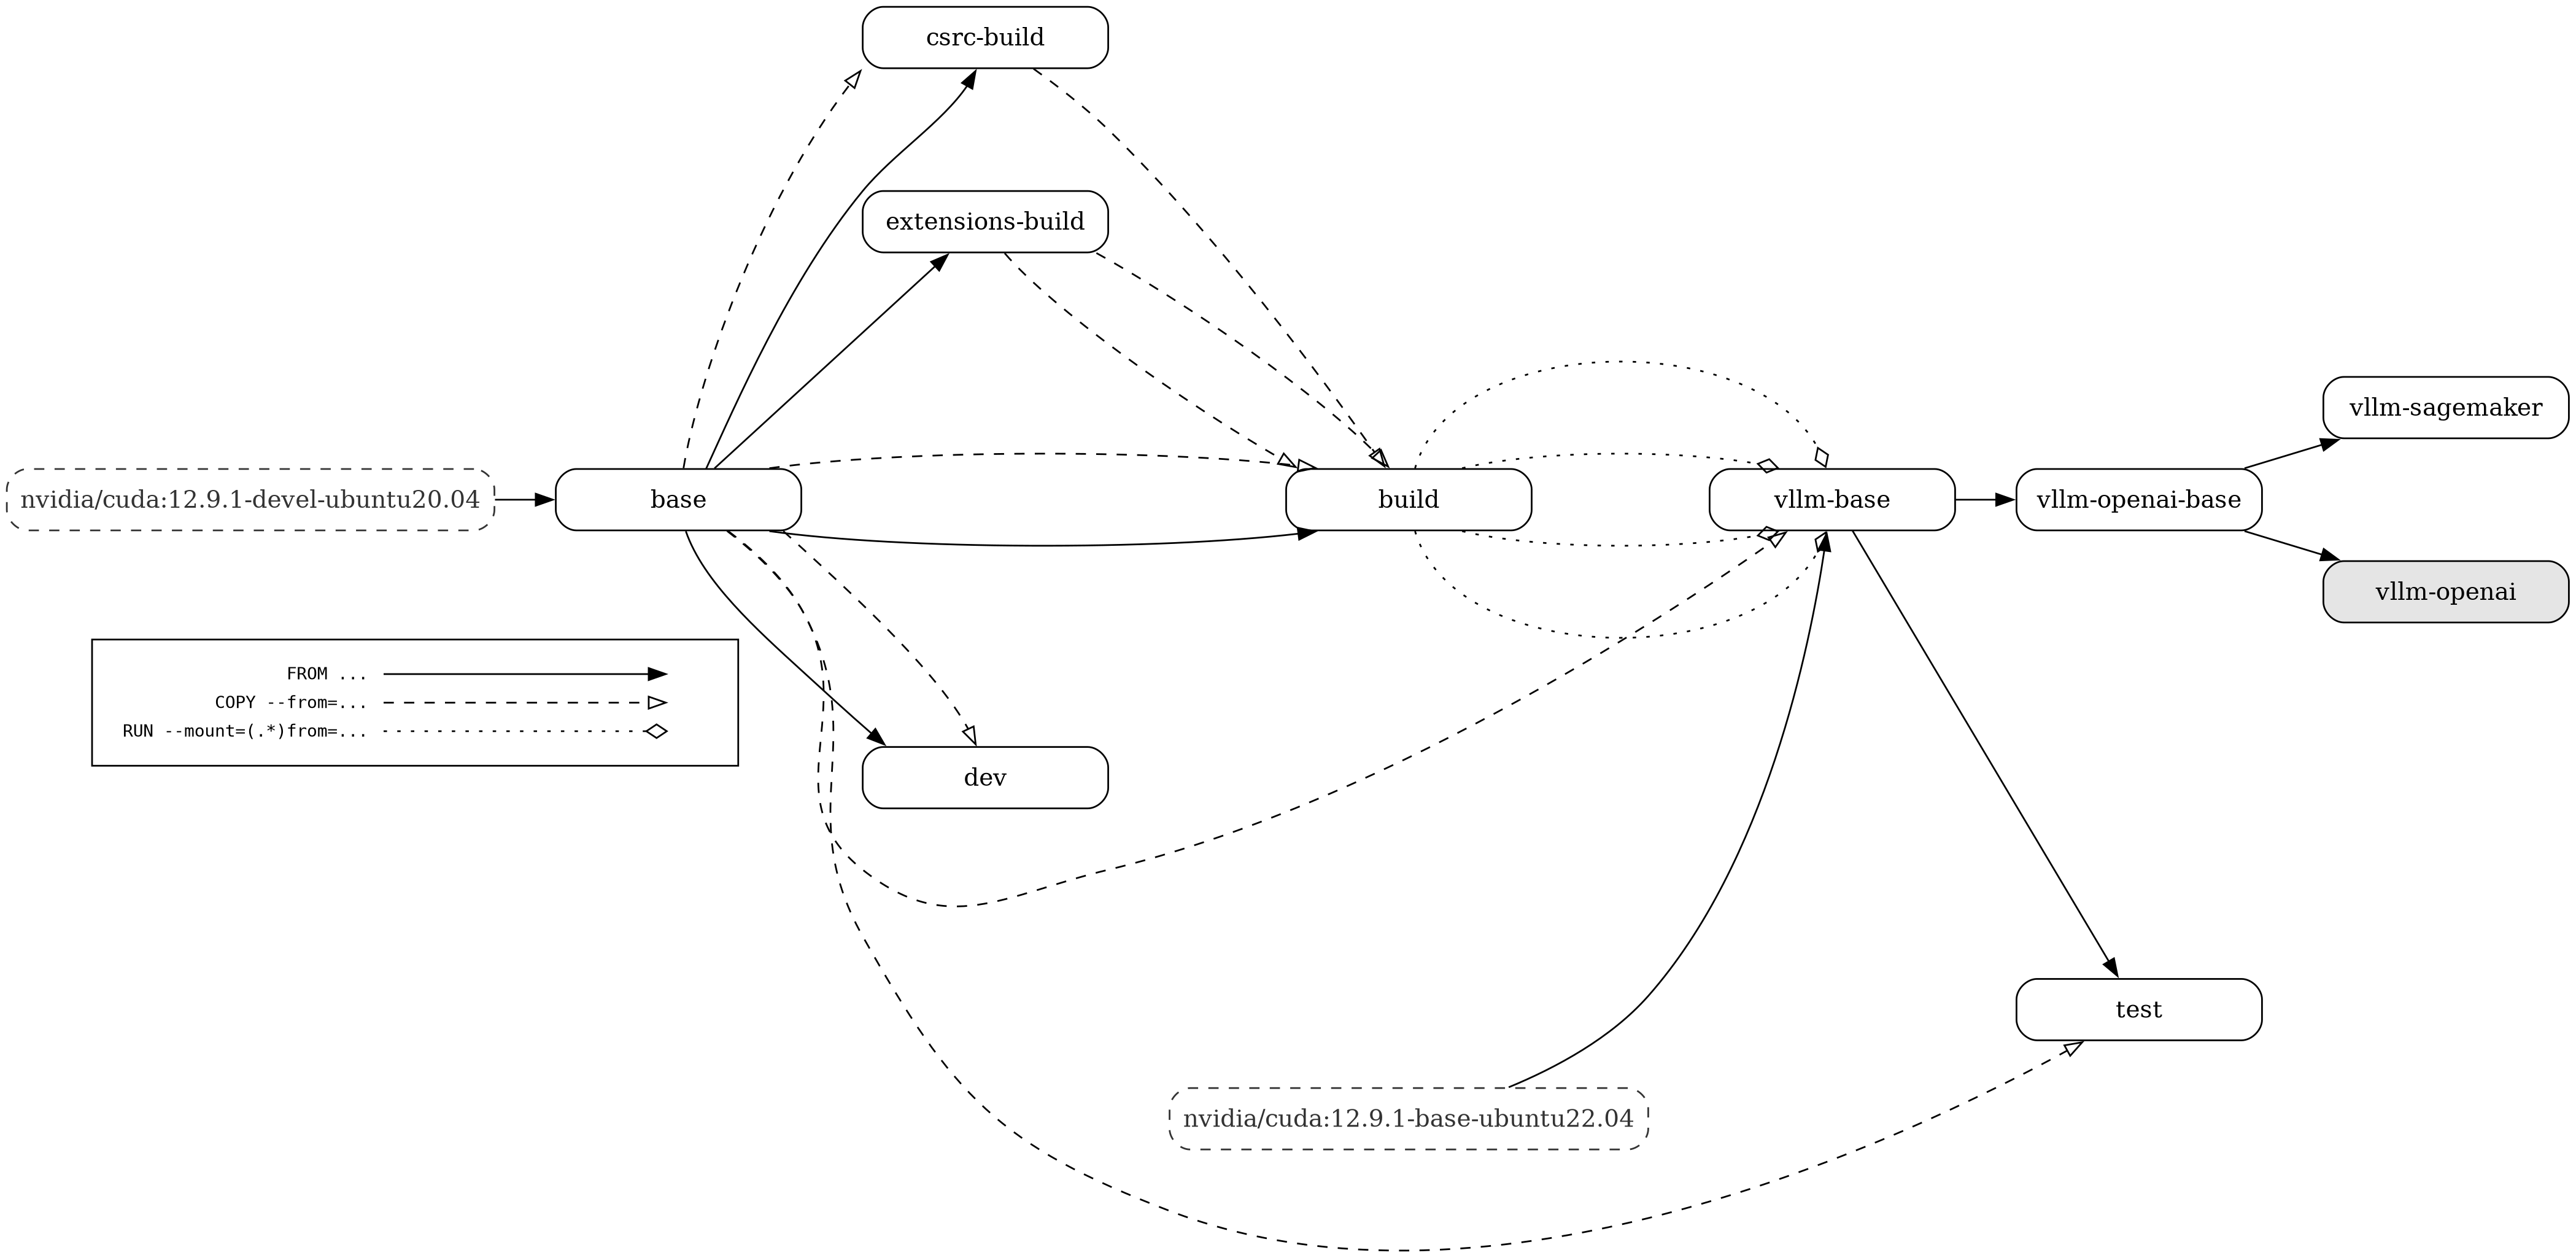
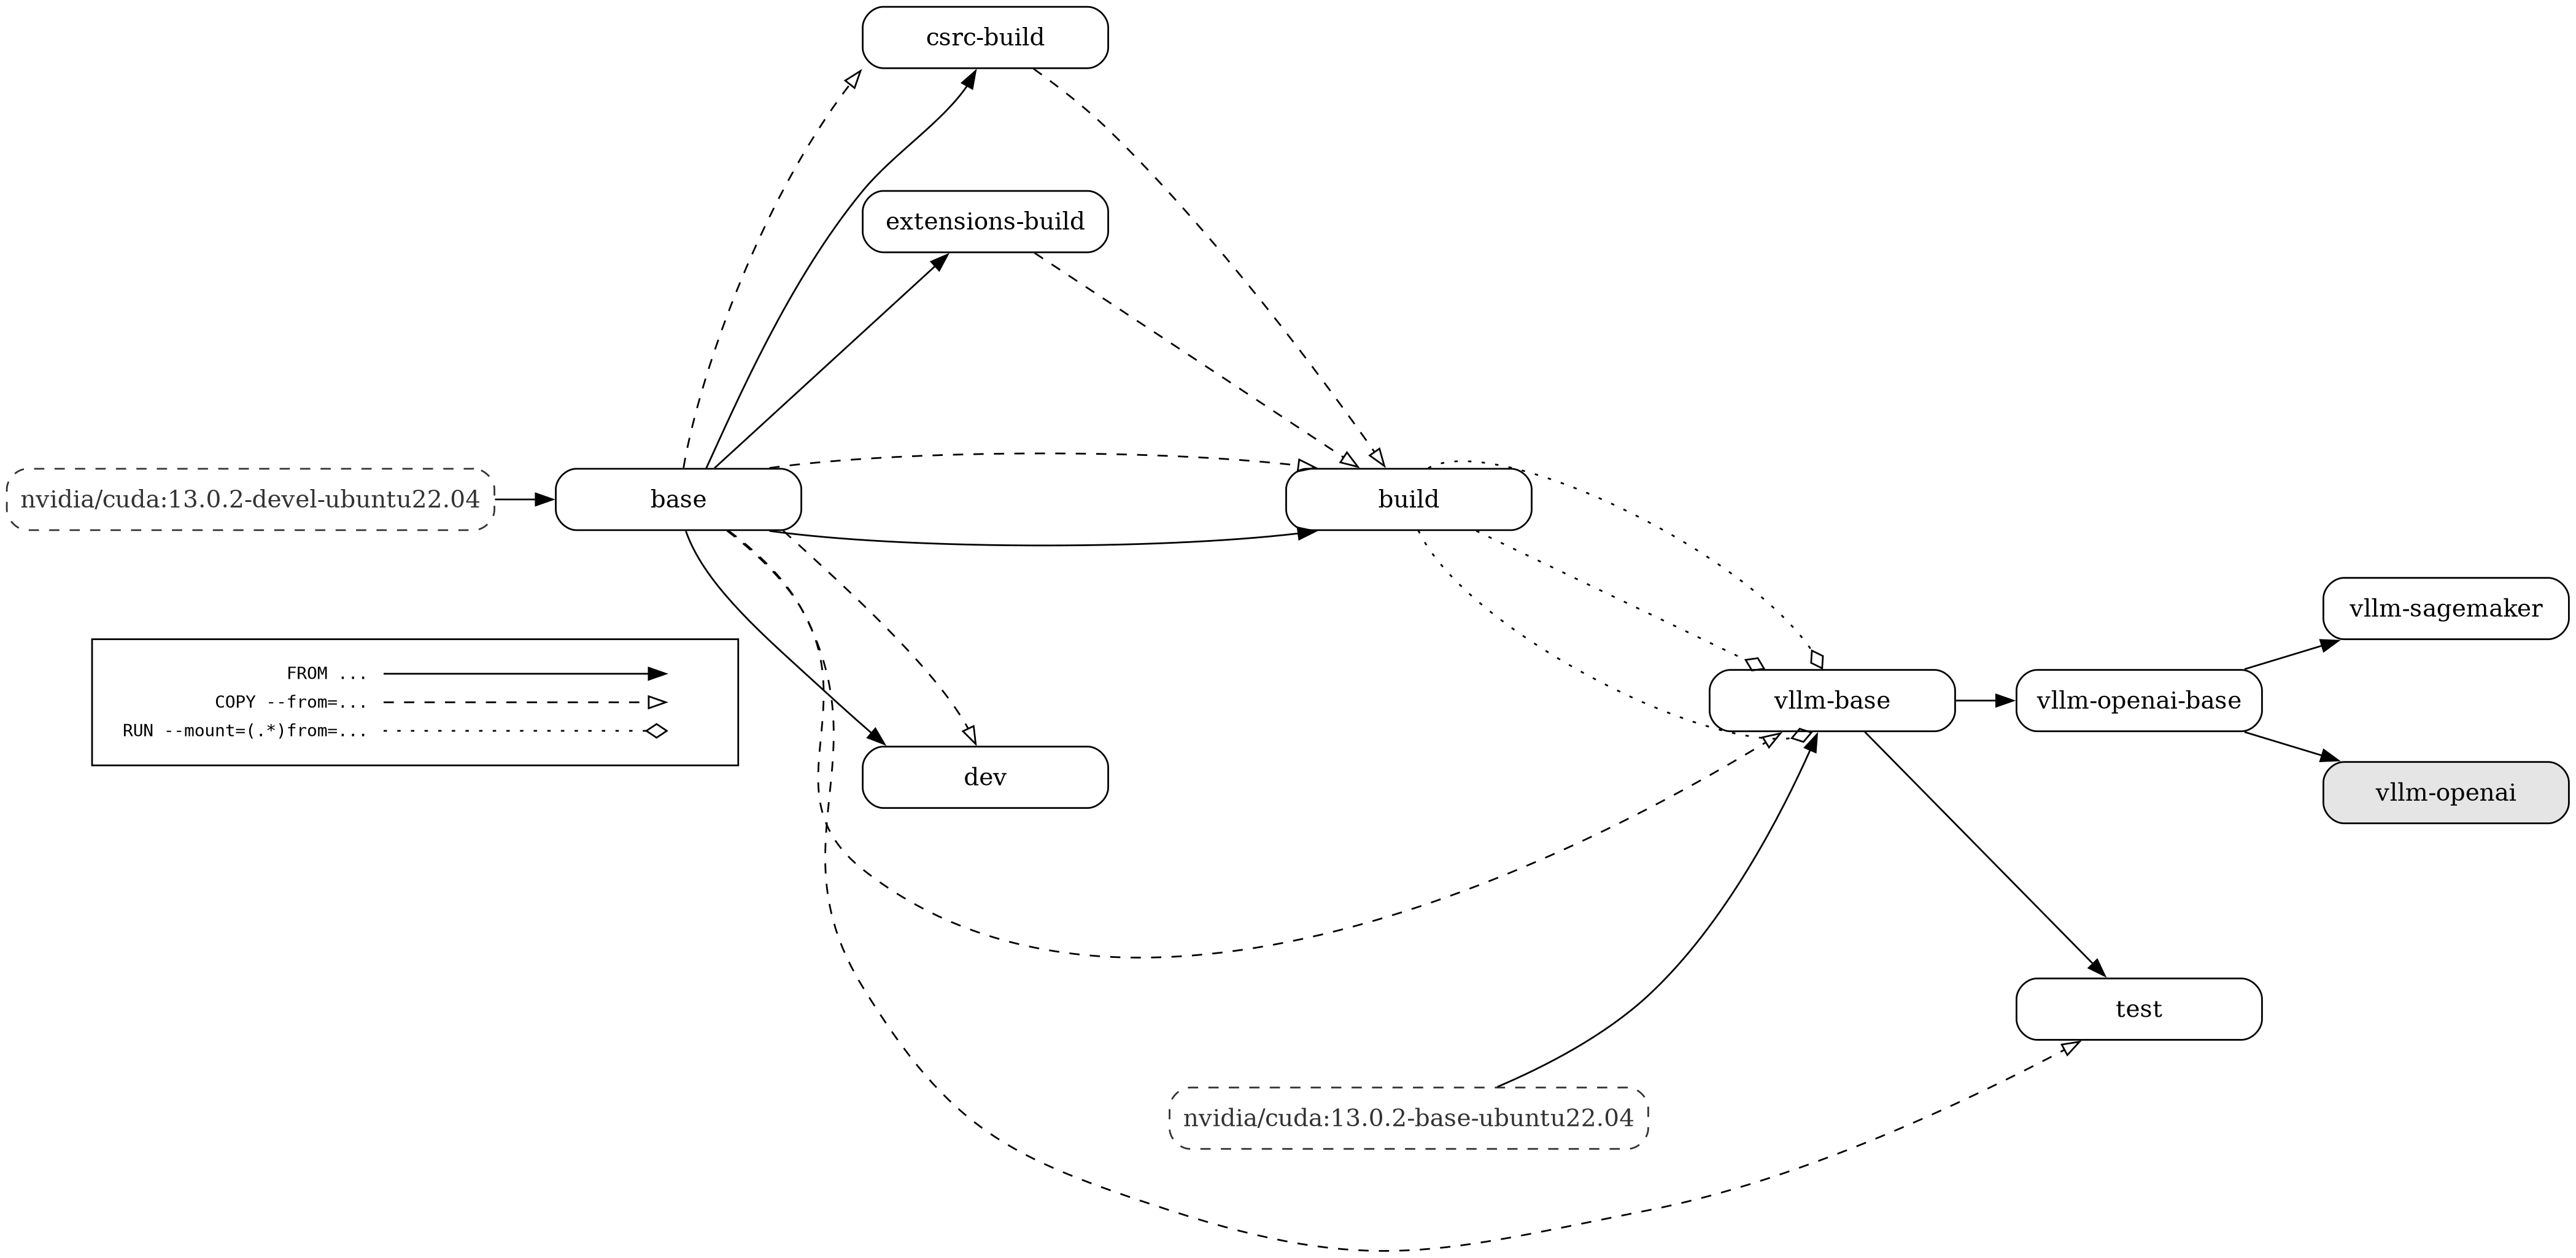
Fix CI streaming test, Depot sccache Dockerfile, and pre-commit.
Restore commented-out upstream S3 sccache wiring with cohere tags while
keeping Depot WebDAV active, fix the streaming runner late_interaction mock,
and clear mypy/shellcheck/ruff pre-commit failures on the branch.

diff --git a/vllm/compilation/piecewise_backend.py b/vllm/compilation/piecewise_backend.py
@@ -17,7 +17,7 @@ from torch._logging._internal import trace_structured
 
 from vllm.compilation.backends import VllmBackend
 from vllm.config import VllmConfig
-from vllm.config.utils import Range
+from vllm.config.utils import Range as VllmRange
 from vllm.logger import init_logger
 
 logger = init_logger(__name__)
@@ -78,7 +78,7 @@ def create_concrete_args(graph: fx.GraphModule, size: int) -> list[Any]:
 
 @dataclasses.dataclass
 class RangeEntry:
-    compile_range: Range
+    compile_range: VllmRange
     compiled: bool = False
     runnable: Callable[..., Any] = None  # type: ignore
 
@@ -144,7 +144,7 @@ class PiecewiseBackend:
                 last_compile_range.end
                 == vllm_config.scheduler_config.max_num_batched_tokens
             )
-            self.compile_ranges[-1] = Range(
+            self.compile_ranges[-1] = VllmRange(  # type: ignore[call-arg]
                 start=last_compile_range.start, end=max_int32
             )
 
@@ -159,7 +159,7 @@ class PiecewiseBackend:
         self.returns_tuple = returns_tuple
 
         # the entries for ranges that we need to either
-        self.range_entries: dict[Range, RangeEntry] = {}
+        self.range_entries: dict[VllmRange, RangeEntry] = {}
 
         # We only keep compilation management inside this class directly.
         if self.compile_sizes is not None:
@@ -172,15 +172,17 @@ class PiecewiseBackend:
                     )
                 else:
                     assert isinstance(size, int)
-                    range = Range(start=size, end=size)
-                    if range not in self.compile_ranges:
-                        self.range_entries[range] = RangeEntry(
-                            compile_range=range,
+                    size_range = VllmRange(  # type: ignore[call-arg]
+                        start=size, end=size
+                    )
+                    if size_range not in self.compile_ranges:
+                        self.range_entries[size_range] = RangeEntry(
+                            compile_range=size_range,
                         )
 
-        for range in self.compile_ranges:
-            self.range_entries[range] = RangeEntry(
-                compile_range=range,
+        for compile_range in self.compile_ranges:
+            self.range_entries[compile_range] = RangeEntry(
+                compile_range=compile_range,
             )
 
         # Track whether we've logged the graph for this subgraph (only log once)
@@ -277,7 +279,7 @@ class PiecewiseBackend:
             range_entry.compiled = True
 
     @dynamo_timed("vllm_log_compile_start_torch_trace_only")
-    def _log_compile_start(self, compile_range: Range):
+    def _log_compile_start(self, compile_range: VllmRange):
         """Log compilation event for TORCH_TRACE/tlparse."""
         is_cudagraph_size = (
             self.compile_sizes is not None and compile_range.start in self.compile_sizes
@@ -348,11 +350,15 @@ class PiecewiseBackend:
             return None
 
         if runtime_shape in self.compile_sizes:
-            return self.range_entries[Range(start=runtime_shape, end=runtime_shape)]
+            return self.range_entries[
+                VllmRange(  # type: ignore[call-arg]
+                    start=runtime_shape, end=runtime_shape
+                )
+            ]
         else:
-            for range in self.compile_ranges:
-                if runtime_shape in range:
-                    return self.range_entries[range]
+            for compile_range in self.compile_ranges:
+                if runtime_shape in compile_range:
+                    return self.range_entries[compile_range]
         return None
 
     def __call__(self, *args: Any) -> Any:

diff --git a/vllm/model_executor/layers/quantization/online/fp8.py b/vllm/model_executor/layers/quantization/online/fp8.py
@@ -202,11 +202,31 @@ class Fp8PtpcOnlineLinearMethod(_Fp8OnlineLinearBase):
     weight_quant_key = kFp8StaticChannelSym
     activation_quant_key = kFp8DynamicTokenSym
 
-    def __init__(self):
-        self.out_dtype = torch.get_default_dtype()
+    def create_weights(
+        self,
+        layer: torch.nn.Module,
+        input_size_per_partition: int,
+        output_partition_sizes: list[int],
+        input_size: int,
+        output_size: int,
+        params_dtype: torch.dtype,
+        **extra_weight_attrs,
+    ):
+        super().create_weights(
+            layer,
+            input_size_per_partition,
+            output_partition_sizes,
+            input_size,
+            output_size,
+            params_dtype,
+            **extra_weight_attrs,
+        )
+
         self.fp8_linear = init_fp8_linear_kernel(
             activation_quant_key=self.activation_quant_key,
             weight_quant_key=self.weight_quant_key,
+            weight_shape=layer.weight.shape,
+            input_dtype=self.input_dtype,
             out_dtype=self.out_dtype,
             module_name=self.__class__.__name__,
         )

diff --git a/vllm/compilation/backends.py b/vllm/compilation/backends.py
@@ -29,7 +29,8 @@ from vllm.compilation.codegen import (
 )
 from vllm.config import CompilationConfig, CUDAGraphMode, VllmConfig
 from vllm.config.compilation import DynamicShapesType
-from vllm.config.utils import Range, hash_factors
+from vllm.config.utils import Range as VllmRange
+from vllm.config.utils import hash_factors
 from vllm.logger import init_logger
 from vllm.logging_utils import lazy
 from vllm.platforms import current_platform
@@ -137,7 +138,7 @@ class CompilerManager:
     """
 
     def __init__(self, compilation_config: CompilationConfig) -> None:
-        self.cache: dict[tuple[Range, int, str], Any] = dict()
+        self.cache: dict[tuple[VllmRange, int, str], Any] = dict()
         self.is_cache_updated = False
         self.compilation_config = compilation_config
         self.compiler = make_compiler(compilation_config)
@@ -147,7 +148,7 @@ class CompilerManager:
         return self.compiler.compute_hash(vllm_config)
 
     @contextmanager
-    def compile_context(self, compile_range: Range) -> Generator[None, None, None]:
+    def compile_context(self, compile_range: VllmRange) -> Generator[None, None, None]:
         """Provide compilation context for the duration of compilation to set
         any torch global properties we want to scope to a single Inductor
         compilation (e.g. partition rules, pass context)."""
@@ -194,7 +195,7 @@ class CompilerManager:
                 if not isinstance(value, ty):
                     raise TypeError(f"Expected {ty} but got {type(value)} for {value}")
 
-            def parse_key(key: Any) -> tuple[Range, int, str]:
+            def parse_key(key: Any) -> tuple[VllmRange, int, str]:
                 range_tuple, graph_index, compiler_name = key
                 check_type(graph_index, int)
                 check_type(compiler_name, str)
@@ -202,8 +203,10 @@ class CompilerManager:
                     start, end = range_tuple
                     check_type(start, int)
                     check_type(end, int)
-                    range_tuple = Range(start=start, end=end)
-                check_type(range_tuple, Range)
+                    range_tuple = VllmRange(  # type: ignore[call-arg]
+                        start=start, end=end
+                    )
+                check_type(range_tuple, VllmRange)
                 return range_tuple, graph_index, compiler_name
 
             self.cache = {parse_key(key): value for key, value in cache.items()}
@@ -225,7 +228,7 @@ class CompilerManager:
         graph: fx.GraphModule,
         example_inputs: list[Any],
         graph_index: int,
-        compile_range: Range,
+        compile_range: VllmRange,
     ) -> Callable[..., Any] | None:
         if (compile_range, graph_index, self.compiler.name) not in self.cache:
             return None
@@ -267,7 +270,7 @@ class CompilerManager:
         example_inputs: list[Any],
         additional_inductor_config: dict[str, Any],
         compilation_config: CompilationConfig,
-        compile_range: Range,
+        compile_range: VllmRange,
         graph_index: int = 0,
         num_graphs: int = 1,
         is_encoder: bool = False,

diff --git a/vllm/config/compilation.py b/vllm/config/compilation.py
@@ -13,7 +13,9 @@ from pydantic import Field, TypeAdapter, field_validator
 import vllm.envs as envs
 from vllm.compilation.passes.inductor_pass import CallableInductorPass, InductorPass
 from vllm.config.utils import (
-    Range,
+    Range as VllmRange,
+)
+from vllm.config.utils import (
     config,
     get_hash_factors,
     hash_factors,
@@ -1491,9 +1493,12 @@ class CompilationConfig:
         self.max_cudagraph_capture_size = rounded_sizes[-1]
         self.cudagraph_capture_sizes = rounded_sizes
 
-    def get_compile_ranges(self) -> list[Range]:
+    def get_compile_ranges(self) -> list[VllmRange]:
         """Get the compile ranges for the compilation config."""
         if self.compile_ranges_endpoints is None:
             return []
         endpoints = sorted(set(self.compile_ranges_endpoints))
-        return [Range(s + 1, e) for s, e in zip([0] + endpoints[:-1], endpoints)]
+        return [
+            VllmRange(start=s + 1, end=e)  # type: ignore[call-arg]
+            for s, e in zip([0] + endpoints[:-1], endpoints)
+        ]

diff --git a/vllm/model_executor/layers/fused_moe/config.py b/vllm/model_executor/layers/fused_moe/config.py
@@ -114,16 +114,16 @@ class RoutingMethodType(IntEnum):
     # TopK: TopK (no softmax)
     TopK = (5,)
     # SigmoidRenorm: Sigmoid -> TopK -> Renormalize (divide by sum of top-K)
-    SigmoidRenorm = (6,) # cohere
+    SigmoidRenorm = (6,)  # cohere
     # MiniMax2: Sigmoid + Bias -> TopK -> ScaledSumNormalize
     MiniMax2 = (7,)
     # Unspecified
-    Unspecified = (9.0,) # cohere
+    Unspecified = (9.0,)  # cohere
     # other routing types (not passed to FlashInfer kernels)
     # Deepseek V4 -> sqrtsoftplus + Bias + Normalize
     DeepseekV4 = (100,)
-    Custom = (7,) # cohere
-    Simulated = (8,) # cohere
+    Custom = (7,)  # cohere
+    Simulated = (8,)  # cohere
 
 
 def get_routing_method_type(
@@ -1264,7 +1264,7 @@ class FusedMoEConfig:
     # Whether to normalize top-k probabilities (renormalize).
     norm_topk_prob: bool = True
     # cohere end
-    
+
     moe_backend: MoEBackend = "auto"
     max_num_tokens: int = SchedulerConfig.DEFAULT_MAX_NUM_BATCHED_TOKENS_FOR_BATCHED_DP
     has_bias: bool = False
@@ -1370,4 +1370,3 @@ class FusedMoEConfig:
     @property
     def needs_round_robin_routing_tables(self):
         return self.moe_parallel_config.needs_round_robin_routing_tables
-

diff --git a/vllm/tool_parsers/mistral_tool_parser.py b/vllm/tool_parsers/mistral_tool_parser.py
@@ -92,7 +92,7 @@ class MistralToolCall(ToolCall):
 
 def _is_pre_v11_tokeniser(model_tokenizer: TokenizerLike) -> bool:
     if is_mistral_tokenizer(model_tokenizer):
-        return model_tokenizer.version < 11
+        return getattr(model_tokenizer, "version", 0) < 11
     # For HF tokenizers, check if [ARGS] token exists in vocab
     # which indicates a v11+ equivalent tokenizer
     vocab: dict[str, int] = getattr(model_tokenizer, "get_vocab", lambda: {})()
@@ -185,7 +185,7 @@ class MistralToolParser(ToolParser):
         if (
             not is_mistral_tokenizer(self.model_tokenizer)
             or isinstance(request, ResponsesRequest)
-            or not self.model_tokenizer.supports_grammar
+            or not getattr(self.model_tokenizer, "supports_grammar", False)
             or any_so_non_supported_active
             or response_format_non_supported_active
         ):
@@ -232,7 +232,8 @@ class MistralToolParser(ToolParser):
             # Structured Outputs will be defined.
             request.response_format = None
 
-        grammar_factory = self.model_tokenizer.grammar_factory
+        grammar_factory = getattr(self.model_tokenizer, "grammar_factory", None)
+        assert grammar_factory is not None
 
         # TODO: Once unified parser, improve this.
         # The issue is figuring out when a model is a reasoning one or not.
@@ -277,7 +278,9 @@ class MistralToolParser(ToolParser):
                     json_only=False,
                 )
 
-        request.structured_outputs = StructuredOutputsParams(grammar=lark_grammar)
+        request.structured_outputs = StructuredOutputsParams(  # type: ignore[call-arg]
+            grammar=lark_grammar
+        )
         request._grammar_from_tool_parser = True
         return request
 

diff --git a/vllm/benchmarks/datasets/datasets.py b/vllm/benchmarks/datasets/datasets.py
@@ -1827,7 +1827,7 @@ def get_samples(args, tokenizer: TokenizerLike) -> list[SampleRequest]:
             tokenizer=tokenizer,
             output_len=args.custom_output_len,
             enable_multimodal_chat=args.enable_multimodal_chat,
-            skip_chat_template=args.skip_chat_template, # cohere
+            skip_chat_template=args.skip_chat_template,  # cohere
             request_id_prefix=args.request_id_prefix,
             no_oversample=args.no_oversample,
         )
@@ -2278,9 +2278,9 @@ class CustomMMDataset(CustomDataset):
         num_requests: int,
         output_len: int | None = None,
         enable_multimodal_chat: bool = False,
-        lora_path: str | None = None, # cohere
-        max_loras: int | None = None, # cohere
-        skip_chat_template: bool = False, # cohere
+        lora_path: str | None = None,  # cohere
+        max_loras: int | None = None,  # cohere
+        skip_chat_template: bool = False,  # cohere
         request_id_prefix: str = "",
         no_oversample: bool = False,
         **kwargs,

diff --git a/vllm/multimodal/parse.py b/vllm/multimodal/parse.py
@@ -515,8 +515,12 @@ class MultiModalDataParser:
     ) -> TypeGuard[torch.Tensor | list[torch.Tensor]]:
         if isinstance(data, torch.Tensor):
             return data.ndim == 3
-        if is_list_of(data, torch.Tensor) and len(data) > 0:
-            return data[0].ndim == 2  # type: ignore[index]
+        if (
+            isinstance(data, list)
+            and len(data) > 0
+            and isinstance(data[0], torch.Tensor)
+        ):
+            return data[0].ndim == 2
 
         return False
 

diff --git a/vllm/sampling_params.py b/vllm/sampling_params.py
@@ -158,11 +158,15 @@ class RequestOutputKind(Enum):
 
 
 def _is_non_tekken_mistral(tokenizer: TokenizerLike) -> bool:
-    return is_mistral_tokenizer(tokenizer) and not tokenizer.is_tekken
+    return is_mistral_tokenizer(tokenizer) and not getattr(
+        tokenizer, "is_tekken", False
+    )
 
 
 def _get_llg_tokenizer(tokenizer: TokenizerLike) -> Any:
-    return tokenizer.llg_tokenizer if is_mistral_tokenizer(tokenizer) else None
+    if not is_mistral_tokenizer(tokenizer):
+        return None
+    return getattr(tokenizer, "llg_tokenizer", None)
 
 
 class SamplingParams(

diff --git a/tests/v1/streaming_input/test_gpu_model_runner_streaming.py b/tests/v1/streaming_input/test_gpu_model_runner_streaming.py
@@ -28,6 +28,11 @@ def mock_model_runner_with_input_batch():
     runner.requests = {}
     runner.max_num_reqs = 10
     runner.max_model_len = 1024
+    # cohere start
+    # _update_streaming_request calls late_interaction_runner.register_request;
+    # upstream fixture omits this mock (test not in upstream CPU CI).
+    runner.late_interaction_runner = Mock()
+    # cohere end
 
     # Create a real InputBatch for e2e testing
     runner.input_batch = InputBatch(

diff --git a/vllm/entrypoints/openai/chat_completion/protocol.py b/vllm/entrypoints/openai/chat_completion/protocol.py
@@ -575,7 +575,9 @@ class ChatCompletionRequest(OpenAIBaseModel):
                 self.structured_outputs = (
                     StructuredOutputsParams(**structured_outputs_kwargs)
                     if self.structured_outputs is None
-                    else replace(self.structured_outputs, **structured_outputs_kwargs)
+                    else replace(  # type: ignore[type-var]
+                        self.structured_outputs, **structured_outputs_kwargs
+                    )
                 )
 
         extra_args: dict[str, Any] = self.vllm_xargs if self.vllm_xargs else {}

diff --git a/vllm/entrypoints/openai/completion/protocol.py b/vllm/entrypoints/openai/completion/protocol.py
@@ -286,7 +286,9 @@ class CompletionRequest(OpenAIBaseModel):
                 self.structured_outputs = (
                     StructuredOutputsParams(**structured_outputs_kwargs)
                     if self.structured_outputs is None
-                    else replace(self.structured_outputs, **structured_outputs_kwargs)
+                    else replace(  # type: ignore[type-var]
+                        self.structured_outputs, **structured_outputs_kwargs
+                    )
                 )
 
         extra_args: dict[str, Any] = self.vllm_xargs if self.vllm_xargs else {}